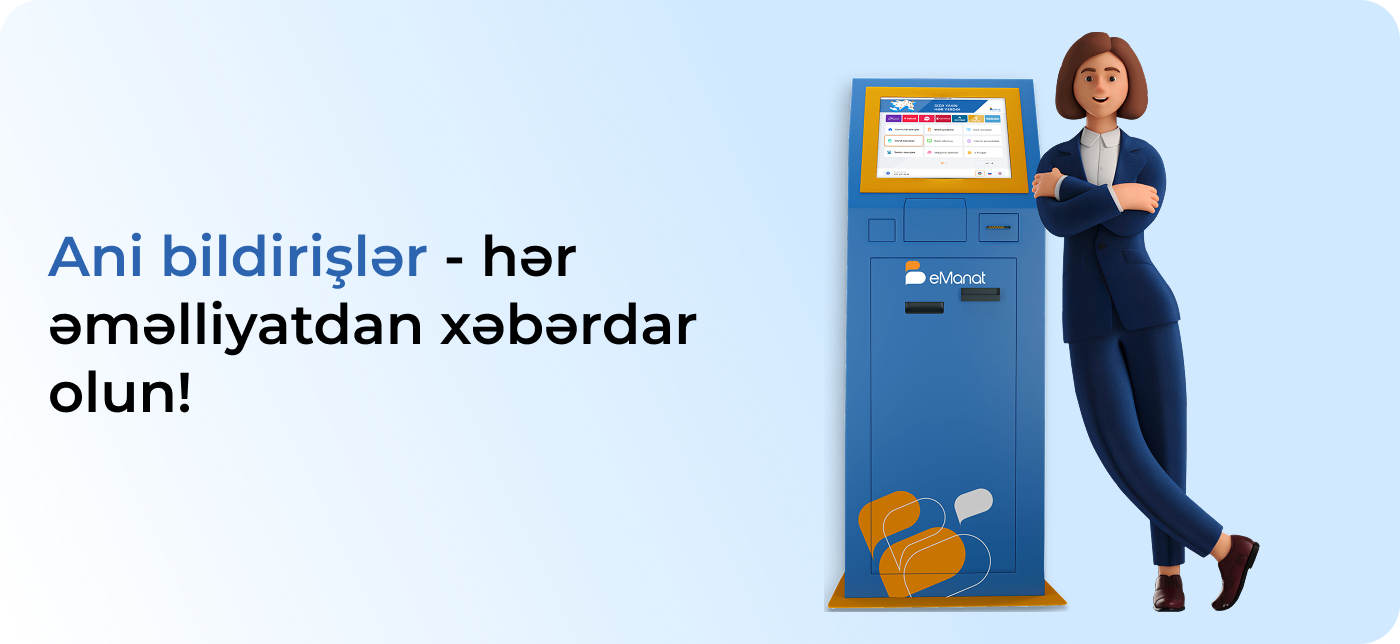
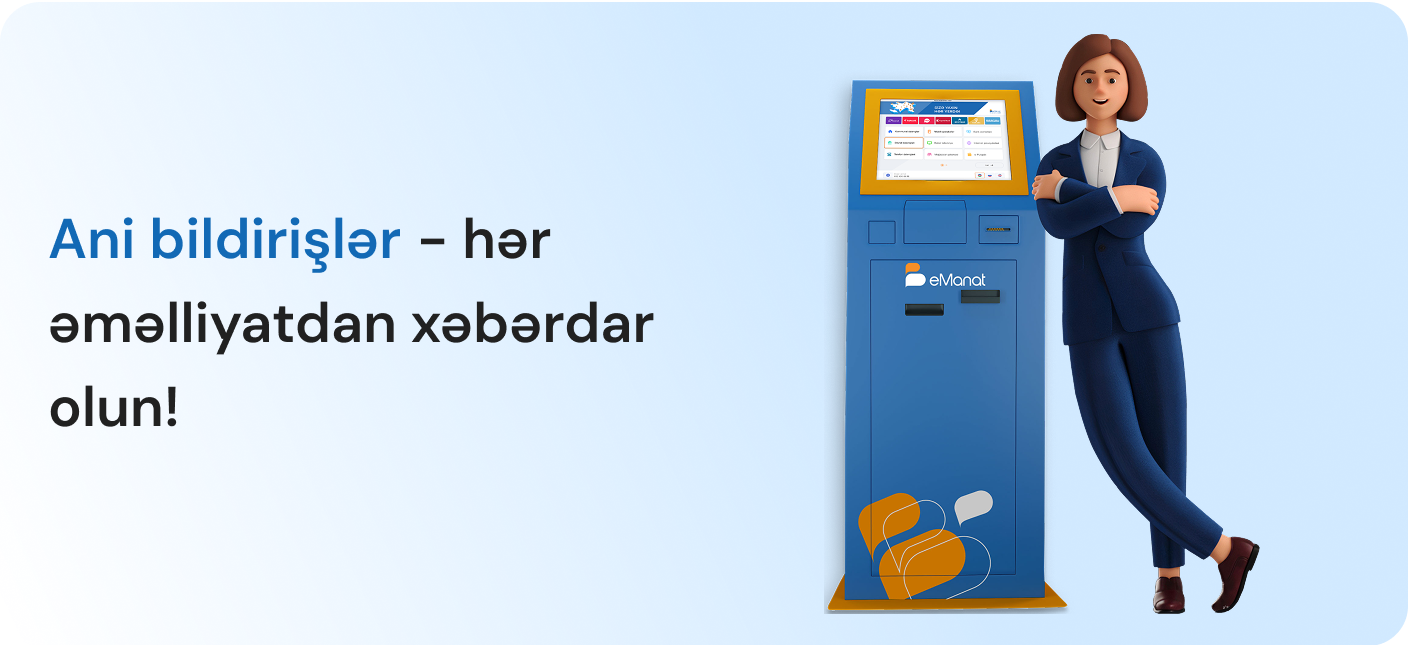
feat: Update image assets, enhance styles in various components, and improve functionality in screens

diff --git a/screens/NotificationsScreen.tsx b/screens/NotificationsScreen.tsx
@@ -765,7 +765,7 @@ const styles = StyleSheet.create({
   notificationTitle: {
     fontSize: 16,
     fontFamily: 'DMSans-SemiBold',
-    color: '#001D45',
+    color: '#1269B5',
     flex: 1,
   },
   notificationTime: {
@@ -786,22 +786,22 @@ const styles = StyleSheet.create({
     backgroundColor: 'rgba(0, 0, 0, 0.3)',
   },
   modalContent: {
-    width: '80%',
+    width: '85%',
     backgroundColor: '#FFF',
     padding: 20,
     borderRadius: 10,
-    alignItems: 'center',
   },
   modalTitle: {
-    fontSize: 24,
+    fontSize: 20,
     fontFamily: 'DMSans-SemiBold',
     color: '#001D45',
     marginBottom: 10,
+    textAlign: 'left',
   },
   modalText: {
-    fontSize: 14,
+    fontSize: 12,
     color: '#A8A8A8',
-    textAlign: 'center',
+    textAlign: 'left',
     marginBottom: 20,
     fontFamily: 'DMSans-Regular',
   },
@@ -829,7 +829,7 @@ const styles = StyleSheet.create({
   },
   confirmText: {color: '#FFF', fontSize: 14, fontFamily: 'DMSans-SemiBold'},
   closeButton: {
-    paddingVertical: 20,
+    paddingVertical: 15,
     paddingHorizontal: 20,
     backgroundColor: '#fff',
     borderWidth: 1,
@@ -846,9 +846,11 @@ const styles = StyleSheet.create({
     fontFamily: 'DMSans-SemiBold',
   },
   image: {
-    width: 85,
-    height: 85,
+    width: 50,
+    height: 57,
     objectFit: 'cover',
+    marginBottom: 5,
+    alignSelf: 'center',
   },
   noResult: {
     color: '#A8A8A8',
@@ -886,7 +888,7 @@ const styles = StyleSheet.create({
     lineHeight: 21,
   },
   deleteAllText: {
-    color: 'var(--Neutral-700, #616161)',
+    color: '#063A66',
     fontFamily: 'DMSans-SemiBold',
     fontSize: 12,
     fontStyle: 'normal',

diff --git a/screens/ReportsScreen.tsx b/screens/ReportsScreen.tsx
@@ -128,13 +128,13 @@ const ReportsScreen = () => {
   const renderFilterOption = (option: string) => (
     <TouchableOpacity
       key={option}
-      style={{flexDirection: 'row', alignItems: 'center', marginVertical: 5}}
+      style={{flexDirection: 'row', alignItems: 'center', marginVertical: 10}}
       onPress={() => {
         setSelectedFilters([option]);
       }}>
       <View style={styles.checkBox}>
         {selectedFilters.includes(option) && (
-          <Icon name="check" size={20} color="#2D64AF" />
+          <Icon name="check" size={17} color="#2D64AF" />
         )}
       </View>
       <Text style={styles.filterOptionText}>{option}</Text>
@@ -271,10 +271,10 @@ const styles = StyleSheet.create({
     fontFamily: 'DMSans-Regular',
     borderRadius: 10,
     marginVertical: 15,
-    justifyContent: 'space-between', // Ensures icons and input are spaced well
+    justifyContent: 'space-between',
   },
   filterIcon: {
-    marginLeft: 10, // Space between the search input and filter icon
+    marginLeft: 10,
   },
 
   input: {
@@ -426,14 +426,14 @@ const styles = StyleSheet.create({
     lineHeight: 24,
   },
   checkBox: {
-    width: 30, // Increase width
-    height: 30, // Increase height
+    width: 20, // Increase width
+    height: 20, // Increase height
     borderRadius: 5,
-    borderWidth: 2, // Slightly thicker border
+    borderWidth: 1, // Slightly thicker border
     borderColor: '#75ACDA',
     alignItems: 'center',
     justifyContent: 'center',
-    backgroundColor: 'EFF8FF',
+    backgroundColor: '#EFF8FF',
     marginRight: 10,
   },
 });

diff --git a/screens/NewReportScreen.tsx b/screens/NewReportScreen.tsx
@@ -167,6 +167,7 @@ const NewReportScreen = () => {
     const fetchProblems = async () => {
       try {
         const data = await apiService.get('/mobile/Problem/GetAll');
+        console.log(data);
         setProblemList(data);
       } catch (error) {
         console.error('Problem siyahısı alınmadı:', error);
@@ -219,7 +220,7 @@ const NewReportScreen = () => {
   };
 
   useEffect(() => {
-    if (terminalList.length && terminalIdFromRoute) {
+    if (terminalList.length && terminalIdFromRoute !== undefined) {
       const matchedTerminal = terminalList?.find(
         terminal => terminal.id === terminalIdFromRoute,
       );
@@ -245,14 +246,15 @@ const NewReportScreen = () => {
               value=""
               style={styles.customPickerLabel}
             />
-            {problemList?.map((problem: any) => (
-              <Picker.Item
-                key={problem.id}
-                label={problem.description}
-                value={problem.id}
-                style={styles.customPickerLabel}
-              />
-            ))}
+            {problemList &&
+              problemList?.map((problem: any) => (
+                <Picker.Item
+                  key={problem.id}
+                  label={problem.description}
+                  value={problem.id}
+                  style={styles.customPickerLabel}
+                />
+              ))}
           </Picker>
 
           <Text style={styles.selectLabel}> Terminal seçin</Text>

diff --git a/screens/TasksScreen.tsx b/screens/TasksScreen.tsx
@@ -172,6 +172,8 @@ const TasksScreen: React.FC = () => {
     const connectSignalR = async () => {
       try {
         const token = await AsyncStorage.getItem('userToken');
+        const roleName = await AsyncStorage.getItem('roleName');
+
         if (!token || connectionRef.current) return;
 
         const connection = new signalR.HubConnectionBuilder()
@@ -185,7 +187,12 @@ const TasksScreen: React.FC = () => {
           .configureLogging(signalR.LogLevel.Information)
           .build();
 
-        connection.on('CollectorTaskCreated', (notification: any) => {
+        const eventName =
+          roleName === 'Collector'
+            ? 'CollectorTaskCreated'
+            : 'TechnicianTaskCreated';
+
+        connection.on(eventName, (notification: any) => {
           const alreadyExists = tasksRef.current.some(
             t => t.id === notification.taskId,
           );
@@ -226,7 +233,6 @@ const TasksScreen: React.FC = () => {
       }
     };
   }, []);
-
   return (
     <View style={styles.container}>
       <TopHeader
@@ -429,8 +435,9 @@ const styles = StyleSheet.create({
     borderRadius: 6,
     padding: 16,
     marginBottom: 10,
+    display: 'flex',
     flexDirection: 'row',
-    alignItems: 'center',
+    alignItems: 'flex-start',
   },
   taskContent: {
     flex: 1,

diff --git a/components/Modal.tsx b/components/Modal.tsx
@@ -46,26 +46,35 @@ const styles = StyleSheet.create({
     alignItems: 'center',
   },
   modalContainer: {
-    width: '80%',
+    width: '85%',
     backgroundColor: 'white',
-    padding: 20,
+    paddingVertical: 20,
+    paddingHorizontal: 15,
     borderRadius: 12,
     elevation: 5,
     gap: 10,
+    display: 'flex',
+    flexDirection: 'column',
+    justifyContent: 'flex-start',
+    alignItems: 'flex-start',
   },
   title: {
     color: '#063A66',
     fontFamily: 'DMSans-Bold',
     fontSize: 20,
+    textAlign: 'left',
   },
   description: {
     color: '#616161',
     fontFamily: 'DMSans-Regular',
     fontSize: 14,
+    textAlign: 'left',
   },
   buttonContainer: {
     flexDirection: 'row',
     justifyContent: 'flex-end',
+    alignItems: 'center',
+    width: '100%',
     gap: 10,
     marginTop: 10,
   },
@@ -77,7 +86,7 @@ const styles = StyleSheet.create({
     justifyContent: 'center',
     alignItems: 'center',
     flexDirection: 'row',
-    width: '50%',
+    width: '48%',
   },
   cancelText: {
     color: '#1269B5',
@@ -95,7 +104,7 @@ const styles = StyleSheet.create({
     alignItems: 'center',
     flexDirection: 'row',
     backgroundColor: '#1269B5',
-    width: '50%',
+    width: '48%',
   },
   confirmText: {
     color: '#fff',

diff --git a/components/Banner.tsx b/components/Banner.tsx
@@ -30,24 +30,20 @@ const ImageSlider = () => {
       Animated.sequence([
         Animated.timing(scaleAnim, {
           toValue: 1.2,
-          duration: 500,
+          duration: 1000,
           useNativeDriver: true,
         }),
         Animated.timing(scaleAnim, {
           toValue: 1,
-          duration: 500,
+          duration: 1000,
           useNativeDriver: true,
         }),
       ]),
     ).start();
   }, []);
 
-  // const handleButtonPress = () => {
-  //   navigation.navigate('TaskProcess');
-  // };
-
   return (
-    <Swiper autoplay height={250} showsPagination={false}>
+    <Swiper autoplay height={250} showsPagination={false} autoplayTimeout={5}>
       {images.map((image, index) => (
         <View key={index} style={styles.imageContainer}>
           <Image source={image} style={styles.image} />

diff --git a/screens/TaskProcessScreen.tsx b/screens/TaskProcessScreen.tsx
@@ -419,8 +419,8 @@ const TaskProcessScreen = ({route}: any) => {
           visible={successModalVisible}
           title="Tapşırıq tamamlandı"
           description="Tapşırıq uğurla tamamlandı."
-          confirmText="Bağla"
-          onConfirm={() => {
+          cancelText="Bağla"
+          onCancel={() => {
             setSuccessModalVisible(false);
             navigation.navigate('YeniHesabat', {
               terminalId: taskData?.terminal?.id,

diff --git a/screens/TerminalsScreen.tsx b/screens/TerminalsScreen.tsx
@@ -137,7 +137,7 @@ const TerminallarScreen = () => {
                 label="Terminal ID"
                 value={selectedTerminal?.code}
               />
-              <InfoItem icon={<AvatarIcon />} label="Şirkət" value="E-manat" />
+              {/* <InfoItem icon={<AvatarIcon />} label="Şirkət" value="E-manat" /> */}
               <InfoItem
                 icon={<MapIcon color="#1269B5" />}
                 label="Bölgə"

diff --git a/components/FilePickerModal.tsx b/components/FilePickerModal.tsx
@@ -64,13 +64,14 @@ const styles = StyleSheet.create({
     backgroundColor: '#fff',
     borderRadius: 16,
     padding: 20,
-    gap: 14,
+    gap: 20,
+    display: 'flex',
+    flexDirection: 'column',
   },
   header: {
     flexDirection: 'row',
     justifyContent: 'space-between',
     alignItems: 'center',
-    marginBottom: 8,
   },
   option: {
     flexDirection: 'row',

diff --git a/components/VideoPickerModal.tsx b/components/VideoPickerModal.tsx
@@ -63,13 +63,14 @@ const styles = StyleSheet.create({
     backgroundColor: '#fff',
     borderRadius: 16,
     padding: 20,
-    gap: 14,
+    gap: 20,
+    display: 'flex',
+    flexDirection: 'column',
   },
   header: {
     flexDirection: 'row',
     justifyContent: 'space-between',
     alignItems: 'center',
-    marginBottom: 8,
   },
   title: {
     color: '#212121',
